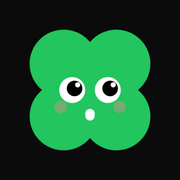
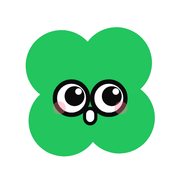
fix: 로고·PWA 아이콘을 흰 배경 기획팀장으로, 로그인 화면 로고는 움직이는 캐릭터, 로그인하면 봇 대화방이 서버 기록으로 되살아남
대표 0923 「흰 배경이여야지」 「로그인을 하면 대화들이 팀장들 대화방에 쌓여야지 왜 자꾸 초기화되냐」(원인: 대화창이 탭 저장소만 보고 서버 기록을 안 불러왔음)

diff --git a/src/components/os/OsChat.tsx b/src/components/os/OsChat.tsx
@@ -98,6 +98,30 @@ export default function OsChat({ mentorId }: { mentorId: string }) {
         })
     }, [mentorId])
 
+    // 탭 저장소가 비었으면(새 탭, 다른 기기, 로그인 직후) 서버에 쌓인 이 봇과의 최근 대화방을 불러온다.
+    // 대표 0923 「로그인을 하면 해당 계정에 대화들이 팀장들 대화방에 쌓여야지 왜 자꾸 초기화되냐」
+    useEffect(() => {
+        if (guest) return
+        let alive = true
+        void (async () => {
+            await Promise.resolve()
+            if (readChatCache<Msg>(window.sessionStorage, mentorId)) return
+            try {
+                const sr = await fetch(`/api/sessions?mentorId=${encodeURIComponent(mentorId)}`, { cache: 'no-store' })
+                const sd = sr.ok ? await sr.json() as { sessions?: { id: string }[] } : null
+                const sid = sd?.sessions?.[0]?.id
+                if (!sid || !alive) return
+                const mr = await fetch(`/api/sessions/${encodeURIComponent(sid)}/messages`, { cache: 'no-store' })
+                const md = mr.ok ? await mr.json() as { messages?: { id: string; role: string; content: string }[] } : null
+                const rows = (md?.messages ?? []).filter(m => m.role === 'user' || m.role === 'assistant').slice(-50)
+                if (!alive) return
+                setSessionId(sid)
+                if (rows.length) setMessages(prev => prev.length > 0 ? prev : rows.map(m => ({ id: m.id, role: m.role as Msg['role'], content: m.content })))
+            } catch { /* 못 불러와도 새 대화로 시작한다 */ }
+        })()
+        return () => { alive = false }
+    }, [mentorId, guest])
+
     // 말이 오갈 때마다(답이 다 온 뒤) 탭 저장소에 최근 50개를 남긴다. 되살리기 전(첫 그림)에는 쓰지 않는다
     useEffect(() => {
         if (streaming || !cacheLoaded.current) return

diff --git a/src/app/login/page.tsx b/src/app/login/page.tsx
@@ -2,6 +2,7 @@
 
 export const dynamic = 'force-dynamic'
 
+import BotAvatar from '@/components/os/BotAvatar'
 import { useState, useEffect } from 'react'
 import { createClient } from '@/lib/supabase/client'
 import { safeNextPath } from '@/lib/safe-next'
@@ -188,15 +189,7 @@ export default function LoginPage() {
             }}>
                 {/* Logo */}
                 <div style={{ textAlign: 'center', marginBottom: 32 }}>
-                    <img
-                        src="/logo.png"
-                        alt="큐리 AI"
-                        style={{
-                            width: 80, height: 80, objectFit: 'contain',
-                            marginBottom: 16,
-                            display: 'block', margin: '0 auto 16px',
-                        }}
-                    />
+                    <span style={{ display: 'flex', justifyContent: 'center', marginBottom: 16 }}><BotAvatar shape="clover" color="green" state="talking" size={96} name="큐리AI" /></span>
                     <h1 style={{
                         fontSize: 28, fontWeight: 800, color: '#18181b',
                         letterSpacing: '-0.03em', marginBottom: 6,

diff --git a/public/sw.js b/public/sw.js
@@ -6,7 +6,7 @@
 // === 캐시·오프라인 (설치형 앱) ===
 
 // 껍데기 저장소 이름. 껍데기 파일을 바꾸면 끝 숫자를 올린다 → 옛 저장소는 아래 activate 에서 지워진다.
-const SHELL_CACHE = 'curi-ai-shell-v3'
+const SHELL_CACHE = 'curi-ai-shell-v4'
 const OFFLINE_URL = '/offline.html'
 
 // 설치할 때 미리 저장하는 것 = 인터넷 없이도 보여야 하는 최소한

diff --git a/src/app/layout.tsx b/src/app/layout.tsx
@@ -28,7 +28,7 @@ export const metadata: Metadata = {
   manifest: '/manifest.json',
   icons: {
     icon: '/favicon.ico',
-    apple: '/icons/apple-touch-icon-180.png?v=3',
+    apple: '/icons/apple-touch-icon-180.png?v=4',
   },
   // 아이폰 「홈 화면에 추가」 = 주소창 없이 앱처럼 열리고, 상태바가 화면 위에 겹친다(검정 바탕이라 자연스럽다)
   appleWebApp: {
